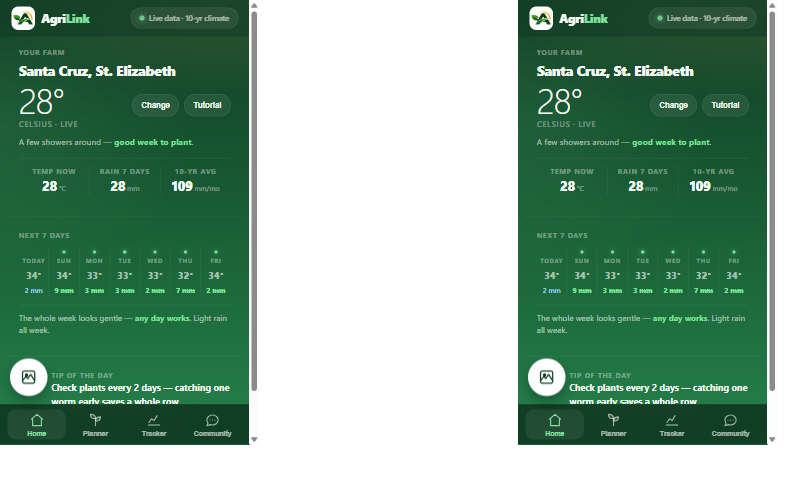
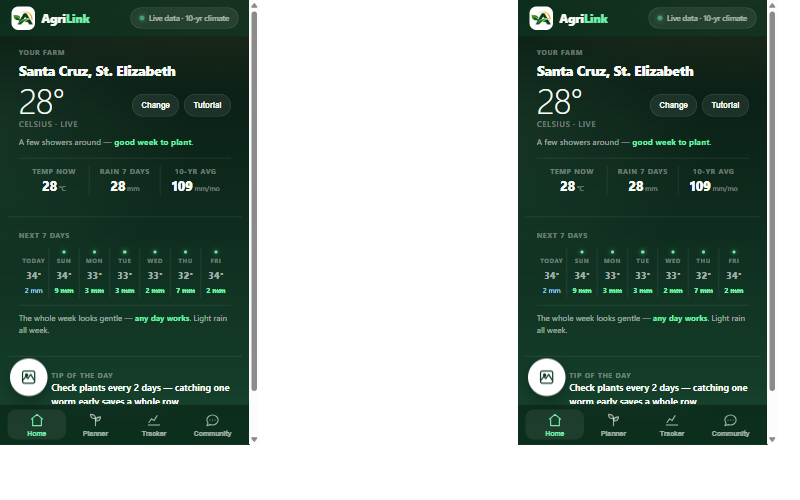
Color scheme v2: deep forest-charcoal canvas, per-screen mood lights, brighter mint, stronger contrast

diff --git a/css/styles.css b/css/styles.css
@@ -6,13 +6,13 @@
 ============================================================ */
 
 :root {
-  --ink:        #f4faf4;            /* primary text on the canvas */
+  --ink:        #f7fcf6;            /* primary text on the canvas */
   --ink-dim:    rgba(244, 250, 244, .62);
   --ink-faint:  rgba(244, 250, 244, .38);
   --glass:      rgba(255, 255, 255, .07);
-  --glass-line: rgba(255, 255, 255, .10);
+  --glass-line: rgba(255, 255, 255, .15);
   --glass-strong: rgba(255, 255, 255, .12);
-  --mint:       #7ee29a;            /* accent for numbers & active states */
+  --mint:       #6ff2a8;            /* accent for numbers & active states */
   --coral:      #ff9d8a;            /* social + "best pick" accent */
   --lavender:   #c3b6f7;            /* photo-check / analysis accent */
   --sun:        #ffd57e;            /* warning accent */
@@ -29,12 +29,39 @@ body {
   color: var(--ink);
   line-height: 1.5;
   background:
-    radial-gradient(560px 280px at 88% -40px, rgba(255, 213, 126, .16), transparent 70%),
-    radial-gradient(480px 380px at -8% 26%, rgba(126, 226, 154, .10), transparent 70%),
-    linear-gradient(180deg, #123f25 0%, #175631 34%, #1f7040 68%, #2a8a52 100%);
+    radial-gradient(560px 280px at 88% -40px, rgba(255, 213, 126, .13), transparent 70%),
+    radial-gradient(480px 380px at -8% 26%, rgba(126, 226, 154, .09), transparent 70%),
+    linear-gradient(180deg, #081710 0%, #0e2a1d 40%, #143d29 78%, #1a5136 100%);
   background-attachment: scroll;
   padding-bottom: 92px;
   -webkit-font-smoothing: antialiased;
+}
+
+/* ---------- per-screen mood light: each tab tints the sky ----------
+   the glows ride on the body background, swapped by showScreen() */
+body[data-screen="screen-planner"] {
+  background-image:
+    radial-gradient(720px 380px at 90% -60px, rgba(111, 242, 168, .20), transparent 70%),
+    radial-gradient(560px 460px at -12% 34%, rgba(159, 216, 242, .12), transparent 70%),
+    linear-gradient(180deg, #081710 0%, #0e2a1d 40%, #143d29 78%, #1a5136 100%);
+}
+body[data-screen="screen-tracker"] {
+  background-image:
+    radial-gradient(680px 340px at 85% -40px, rgba(255, 213, 126, .18), transparent 70%),
+    radial-gradient(520px 420px at -8% 28%, rgba(255, 157, 138, .10), transparent 70%),
+    linear-gradient(180deg, #081710 0%, #0e2a1d 40%, #143d29 78%, #1a5136 100%);
+}
+body[data-screen="screen-photo"] {
+  background-image:
+    radial-gradient(680px 340px at 88% -40px, rgba(195, 182, 247, .18), transparent 70%),
+    radial-gradient(520px 420px at -8% 28%, rgba(126, 226, 154, .10), transparent 70%),
+    linear-gradient(180deg, #081710 0%, #0e2a1d 40%, #143d29 78%, #1a5136 100%);
+}
+body[data-screen="screen-community"] {
+  background-image:
+    radial-gradient(700px 340px at 88% -40px, rgba(255, 157, 138, .19), transparent 70%),
+    radial-gradient(520px 420px at -8% 28%, rgba(195, 182, 247, .10), transparent 70%),
+    linear-gradient(180deg, #081710 0%, #0e2a1d 40%, #143d29 78%, #1a5136 100%);
 }
 
 /* ---------- tiny all-caps labels (the connective tissue) ---------- */
@@ -488,7 +515,7 @@ input::placeholder { color: var(--ink-faint); }
   margin-top: 2px;
 }
 .msg.mine .avatar { background: rgba(255, 157, 138, .22); color: var(--coral); }
-.bubble { background: var(--glass); border-radius: 4px 18px 18px 18px; padding: 9px 13px; font-size: 14.5px; line-height: 1.45; }
+.bubble { background: rgba(255,255,255,.09); border-radius: 4px 18px 18px 18px; padding: 9px 13px; font-size: 14.5px; line-height: 1.45; }
 .msg.mine .bubble { background: rgba(255, 157, 138, .13); border-radius: 18px 4px 18px 18px; }
 .msg .who { font-size: 12px; font-weight: 700; color: var(--mint); }
 .msg.mine .who { color: var(--coral); }

diff --git a/js/app.js b/js/app.js
@@ -168,6 +168,7 @@ function showScreen(id) {
   document.querySelectorAll(".tab").forEach((t) => {
     t.classList.toggle("active", t.dataset.screen === id);
   });
+  document.body.dataset.screen = id; // each tab gets its own mood light
   window.scrollTo({ top: 0 });
 }
 
@@ -726,6 +727,7 @@ document.querySelectorAll("#board-filter button").forEach((btn) => {
 });
 
 // ============ START THE APP ============
+document.body.dataset.screen = "screen-home"; // sets the initial mood light
 renderChat();
 renderReports();
 renderTipOfDay();

diff --git a/index.html b/index.html
@@ -9,7 +9,7 @@
   <link rel="manifest" href="manifest.json" />
   <link rel="icon" href="icons/icon-192.png" />
   <link rel="apple-touch-icon" href="icons/apple-touch-icon.png" />
-  <link rel="stylesheet" href="css/styles.css" />
+  <link rel="stylesheet" href="css/styles.css?v=13" />
 </head>
 <body>
 

diff --git a/service-worker.js b/service-worker.js
@@ -4,7 +4,7 @@
    so it opens even when the farm has no signal.
 ============================================================ */
 
-const CACHE_NAME = "agrilink-v12";
+const CACHE_NAME = "agrilink-v13";
 const FILES_TO_CACHE = [
   "./",
   "./index.html",
